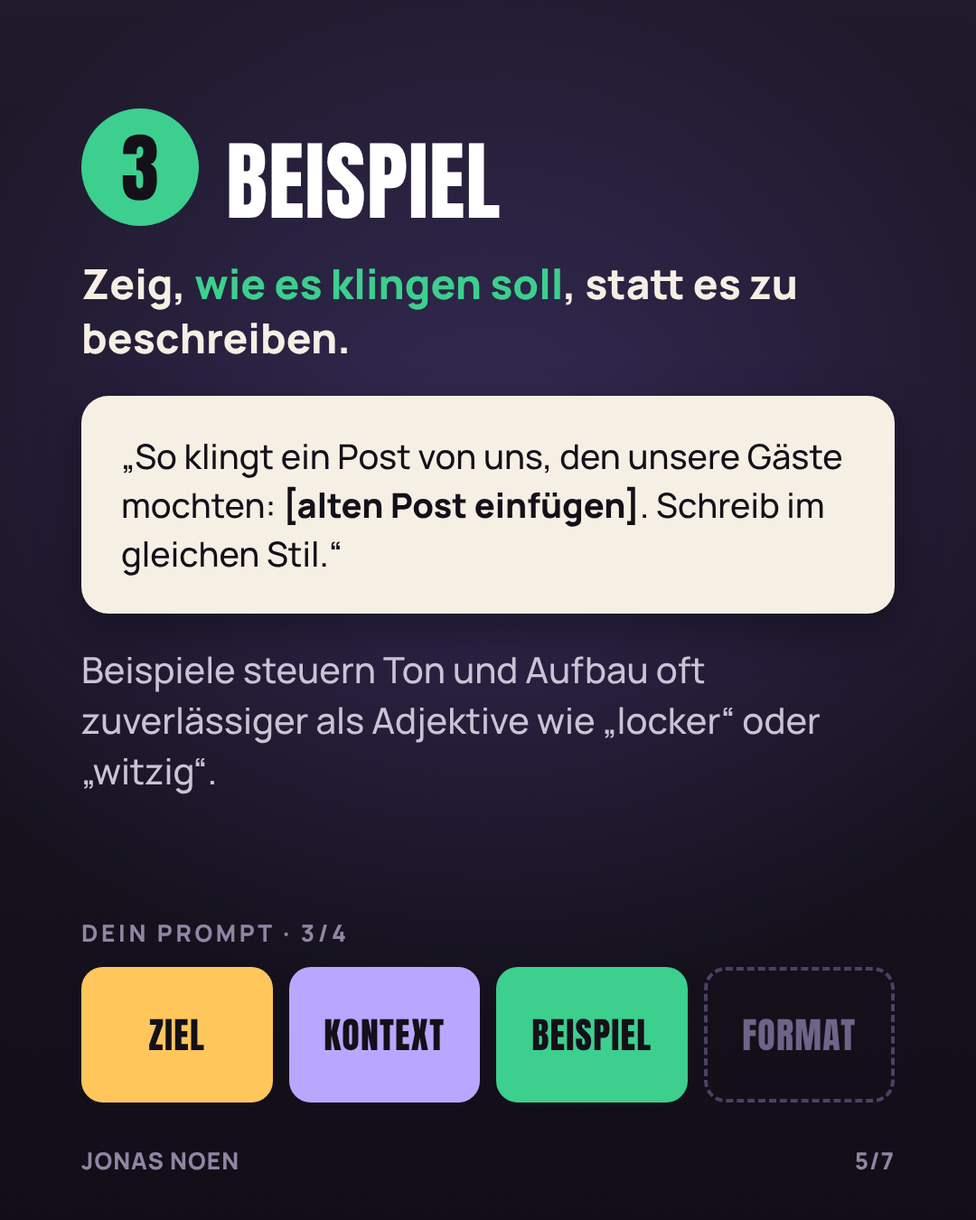
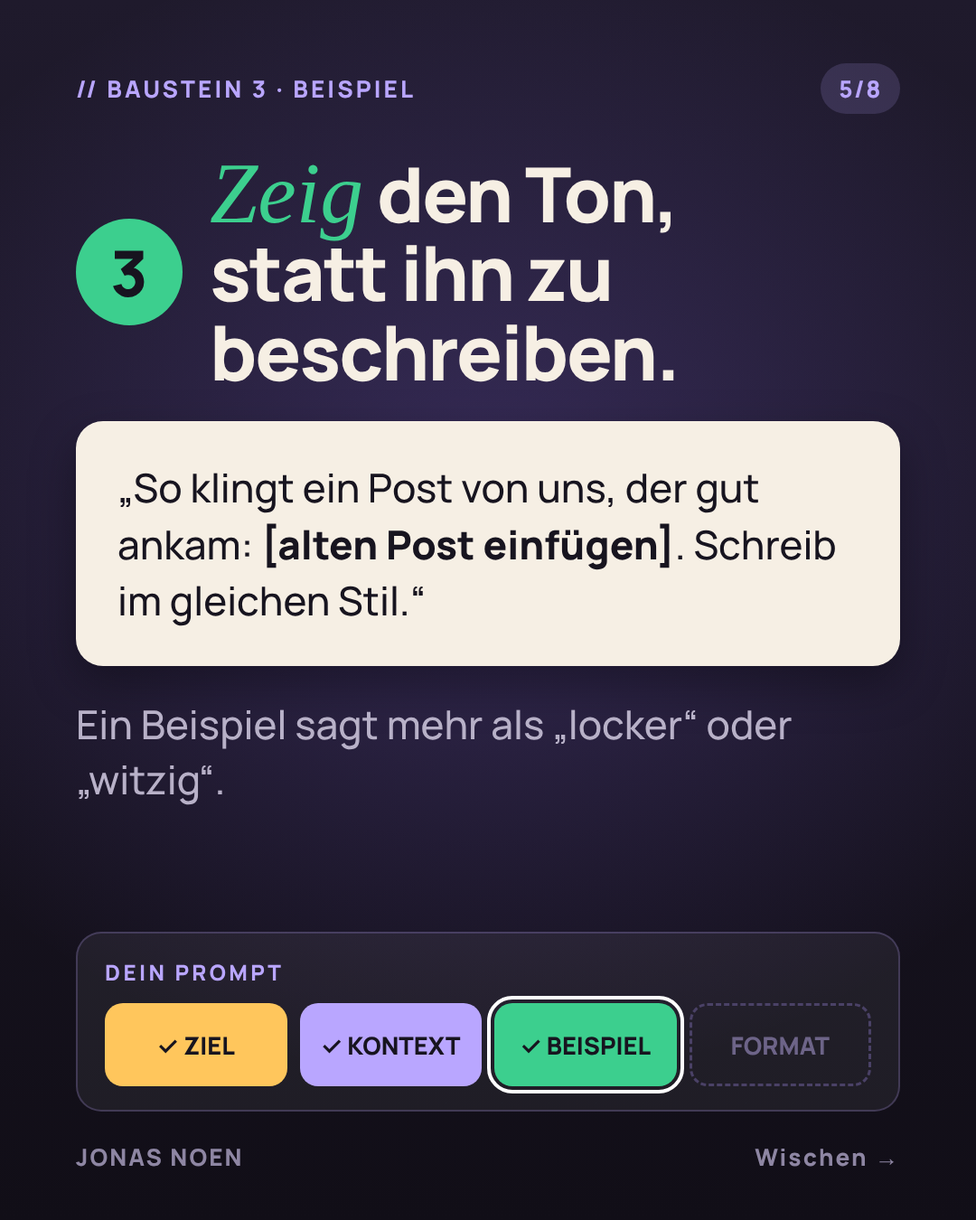
K001 neu im Reel-Look: 8 Slides, Hook-Cover, Speicher-Vorlage; Karussell-Regeln
Claude-Session: https://claude.ai/code/session_01HsYp4LG5fqVGPsJu3h9o7v

diff --git a/carousels/K001/source/slides.html b/carousels/K001/source/slides.html
@@ -1,118 +1,162 @@
 <!doctype html><html><head><meta charset="utf-8">
+<!-- Karussell-Vorlage v2 (Reel-Look): Manrope 800 + kursive Akzente (Instrument Serif), hell/dunkel im Wechsel,
+     Memoji-Posen aus assets/avatar. Je Slide <section class="slide [light]"><div class="in">…</div></section>.
+     shot.cjs rendert 1080×1350 (Instagram) und mit body.tt 1080×1920 (TikTok, Inhalt nach unten versetzt). -->
 <style>
 @font-face{font-family:Manrope;font-weight:500;src:url(node_modules/@fontsource/manrope/files/manrope-latin-500-normal.woff2)}
 @font-face{font-family:Manrope;font-weight:800;src:url(node_modules/@fontsource/manrope/files/manrope-latin-800-normal.woff2)}
-@font-face{font-family:Anton;src:url(node_modules/@fontsource/anton/files/anton-latin-400-normal.woff2)}
-:root{--ink:#141019;--warm:#f6efe4;--chat:#f7f3fb;--violet:#8b6cf0;--violetL:#b9a6ff;--amber:#ffc65c;--green:#3ccf8e;--red:#ef5a4c;--grey:#c9c4d4}
+@font-face{font-family:Serif;font-style:italic;src:url(node_modules/@fontsource/instrument-serif/files/instrument-serif-latin-400-italic.woff2)}
+:root{--ink:#17141f;--warm:#f6efe4;--chat:#f7f3fb;--violet:#8b6cf0;--violetL:#b9a6ff;--amber:#ffc65c;--green:#3ccf8e;--red:#ef5a4c;--coral:#ff8f6b;--grey:#b8b1c8}
 *{box-sizing:border-box}html,body{margin:0;background:#000}
-.slide{width:1080px;height:1350px;position:relative;overflow:hidden;font-family:Manrope,sans-serif;color:var(--warm);
-  background:radial-gradient(700px 600px at 540px 520px,rgba(139,108,240,.24),rgba(139,108,240,0)),linear-gradient(#1f1a2c,#110e17);margin-bottom:20px}
-.lamp{position:absolute;left:470px;top:0;width:140px;height:160px}
-.lamp:before{content:"";position:absolute;left:66px;top:0;width:8px;height:100px;background:#2b2438}
-.lamp:after{content:"";position:absolute;left:0;top:96px;width:140px;height:56px;border-radius:30px;background:#3a3150}
-.cone{position:absolute;left:0;top:150px;width:1080px;height:900px;background:linear-gradient(rgba(255,214,150,.22),rgba(255,214,150,0));clip-path:polygon(44% 0,56% 0,85% 100%,15% 100%)}
-.pad{position:absolute;inset:0;padding:120px 90px 110px;display:flex;flex-direction:column;gap:34px}
-.kicker{font:800 30px Manrope;letter-spacing:.14em;text-transform:uppercase;color:var(--violetL)}
-.h{font:400 104px/1.02 Anton;text-transform:uppercase;letter-spacing:.01em;color:#fff;text-wrap:balance;margin:0}
-.h .a{color:var(--amber)}.h .v{color:var(--violetL)}
-.sub{font:500 40px/1.4 Manrope;color:var(--grey);max-width:860px;margin:0}
-.card{background:var(--warm);color:var(--ink);border-radius:30px;padding:40px 44px;font:500 38px/1.42 Manrope;box-shadow:0 20px 50px rgba(0,0,0,.35)}
+.slide{width:1080px;height:1350px;position:relative;overflow:hidden;font-family:Manrope,sans-serif;color:var(--warm);margin-bottom:20px;
+  background:radial-gradient(760px 640px at 540px 560px,rgba(139,108,240,.26),rgba(139,108,240,0)),linear-gradient(#1f1a2c,#110e17)}
+.slide.light{background:radial-gradient(800px 600px at 540px 500px,rgba(139,108,240,.10),rgba(139,108,240,0)),var(--warm);color:var(--ink)}
+.in{position:absolute;left:0;top:0;width:1080px;height:1350px}
+.tt .slide{height:1920px}.tt .in{top:270px}.tt .av{bottom:-270px!important}.tt #s1 .swipe{visibility:hidden}
+.top{position:absolute;left:84px;right:84px;top:70px;display:flex;justify-content:space-between;align-items:center;font:800 26px Manrope;letter-spacing:.12em;text-transform:uppercase;color:var(--violetL)}
+.light .top{color:var(--violet)}
+.cnt{letter-spacing:.06em;padding:10px 20px;border-radius:30px;background:rgba(185,166,255,.16)}
+.light .cnt{background:rgba(139,108,240,.12)}
+.body{position:absolute;left:84px;right:84px;top:170px;display:flex;flex-direction:column;gap:34px}
+.h{font:800 92px/1.04 Manrope;letter-spacing:-.025em;margin:0;text-wrap:balance}
+.s{font:400 1.14em/0.9 Serif;font-style:italic;letter-spacing:0;color:var(--amber)}
+.s.v{color:var(--violetL)}.s.g{color:var(--green)}.s.c{color:var(--coral)}
+.light .s{color:var(--red)}.light .s.v{color:var(--violet)}
+.sub{font:500 40px/1.38 Manrope;color:var(--grey);margin:0}
+.light .sub{color:#5d566d}
+.card{background:var(--warm);color:var(--ink);border-radius:30px;padding:42px 46px;font:500 44px/1.42 Manrope;box-shadow:0 20px 50px rgba(0,0,0,.35)}
+.light .card{background:#fff;box-shadow:0 16px 40px rgba(60,40,110,.14)}
 .card b{font-weight:800}
-.chat{background:var(--chat);color:var(--ink);border-radius:30px;overflow:hidden;box-shadow:0 20px 50px rgba(0,0,0,.35)}
-.chat .bar{background:#ece5f7;padding:22px 30px;font:800 28px Manrope;color:#5b4bb8;display:flex;gap:12px;align-items:center}
+.chat{background:var(--chat);color:var(--ink);border-radius:30px;overflow:hidden;box-shadow:0 16px 40px rgba(60,40,110,.16)}
+.chat .bar{background:#ece5f7;padding:20px 30px;font:800 28px Manrope;color:#5b4bb8;display:flex;gap:12px;align-items:center}
 .dot{width:16px;height:16px;border-radius:50%}
-.chat .body{padding:34px;display:flex;flex-direction:column;gap:22px}
-.me{align-self:flex-end;background:var(--violet);color:#fff;border-radius:26px;padding:24px 30px;font:800 34px/1.35 Manrope;max-width:88%}
-.ai{background:#e9e3f3;border-radius:26px;padding:24px 30px;font:500 32px/1.4 Manrope;color:var(--ink);max-width:92%}
-.tag{display:inline-block;font:800 26px Manrope;letter-spacing:.08em;text-transform:uppercase;padding:10px 20px;border-radius:30px}
-.stamp{position:absolute;font:800 52px Manrope;color:var(--red);border:10px solid var(--red);border-radius:22px;padding:12px 28px;transform:rotate(-10deg)}
-.num{position:absolute;left:0;top:0;width:130px;height:130px;border-radius:50%;display:grid;place-items:center;font:400 84px Anton;color:var(--ink)}
-.foot{position:absolute;left:90px;right:90px;bottom:48px;display:flex;justify-content:space-between;font:800 26px Manrope;color:#8e86a3;letter-spacing:.04em}
-.swipe{font:800 32px Manrope;color:var(--amber)}
-canvas.guy{position:absolute}
-.big{font:800 46px/1.3 Manrope}
-.row{display:flex;gap:26px;align-items:flex-start}
-.stack{position:absolute;left:90px;right:90px;bottom:130px;display:grid;grid-template-columns:repeat(4,1fr);gap:18px}
-.stack div{height:150px;border-radius:24px;border:4px dashed #4a4166;display:grid;place-items:center;font:400 40px Anton;letter-spacing:.03em;color:#6d6488}
-.stack div.on{border:none;color:var(--ink)}
-.stack-l{position:absolute;left:90px;bottom:300px;font:800 26px Manrope;letter-spacing:.14em;color:#8e86a3}
-.chk{flex:0 0 64px;height:64px;border-radius:50%;display:grid;place-items:center;font:800 38px Manrope;color:#fff}
+.chat .msgs{padding:32px;display:flex;flex-direction:column;gap:22px}
+.me{align-self:flex-end;background:var(--violet);color:#fff;border-radius:26px;padding:22px 28px;font:800 34px/1.35 Manrope;max-width:88%}
+.ai{background:#e9e3f3;border-radius:26px;padding:22px 28px;font:500 32px/1.4 Manrope;max-width:92%;color:#4a4458}
+.stamp{position:absolute;font:800 50px Manrope;color:var(--red);border:9px solid var(--red);border-radius:20px;padding:10px 26px;transform:rotate(-9deg);background:rgba(246,239,228,.85)}
+.badge{width:118px;height:118px;border-radius:50%;display:grid;place-items:center;font:800 70px Manrope;color:var(--ink);flex:0 0 118px}
+.row{display:flex;gap:30px;align-items:center}
+.foot{z-index:2;position:absolute;left:84px;right:84px;bottom:52px;display:flex;justify-content:space-between;align-items:center;font:800 26px Manrope;letter-spacing:.08em;color:#8e86a3}
+.light .foot{color:#9a93a8}
+.swipe{color:var(--amber);font-size:32px;letter-spacing:.02em}
+.light .swipe{color:var(--red)}
+.av{position:absolute;filter:drop-shadow(0 24px 40px rgba(0,0,0,.35))}
+/* Fortschritts-Karte wie in den Reels */
+.prog{position:absolute;left:84px;right:84px;bottom:120px;background:rgba(255,255,255,.06);border:2px solid rgba(185,166,255,.22);border-radius:28px;padding:26px 30px}
+.prog .t{font:800 24px Manrope;letter-spacing:.14em;color:var(--violetL);margin-bottom:18px}
+.prog .g{display:grid;grid-template-columns:repeat(4,1fr);gap:14px}
+.prog .g div{height:92px;border-radius:20px;border:3px dashed #4a4166;display:flex;gap:10px;align-items:center;justify-content:center;font:800 27px Manrope;color:#6d6488}
+.prog .g div.on{border:none;color:var(--ink)}
+.prog .g div.now{outline:4px solid #fff;outline-offset:4px}
+.slots{display:grid;grid-template-columns:repeat(2,250px);gap:18px}
+.slots div{height:120px;border-radius:24px;border:4px dashed #5a5078;display:grid;place-items:center;font:800 64px Manrope;color:#8e86a3}
+.tpl{font:500 40px/1.55 Manrope}
+.tpl p{margin:0 0 22px}.tpl p:last-child{margin:0}
+.tpl b{font-weight:800}
+.blank{display:inline-block;min-width:120px;border-bottom:4px solid #c9c2d6;color:#9a93a8;text-align:center}
+.chk{flex:0 0 60px;height:60px;border-radius:50%;display:grid;place-items:center;font:800 36px Manrope;color:#fff}
 </style></head><body>
 
-<!-- 1 Cover -->
-<section class="slide" id="s1"><div class="lamp"></div><div class="cone"></div>
- <div class="pad" style="padding-top:220px">
-  <div class="kicker">Claude-Tipp · 4 Bausteine</div>
-  <h1 class="h">Der Prompt,<br>der beim <span class="a">ersten Mal</span><br>sitzt</h1>
-  <p class="sub">Ziel, Kontext, Beispiel, Format. Diese vier Teile machen aus einer vagen Bitte eine klare Aufgabe.</p>
+<!-- 1 Cover: Behauptung + leere Slots (Neugier) -->
+<section class="slide" id="s1"><div class="in">
+ <div class="top"><span>// Claude-Prompts · Teil 1</span><span class="cnt">1/8</span></div>
+ <div class="body" style="top:230px;gap:40px">
+  <h1 class="h" style="font-size:118px">Hör auf, Claude <span class="s">raten</span> zu lassen.</h1>
+  <p class="sub" style="font-size:44px;color:#e6dff5">4 Bausteine, die in<br>jeden Prompt gehören.</p>
+  <div class="slots"><div>?</div><div>?</div><div>?</div><div>?</div></div>
  </div>
- <canvas class="guy" data-pose="none" width="480" height="480" style="left:560px;top:720px"></canvas>
+ <img class="av" src="../../../assets/avatar/surprised.png" style="width:560px;right:-40px;bottom:0">
  <div class="foot"><span>JONAS NOEN</span><span class="swipe">Wischen →</span></div>
-</section>
+</div></section>
 
-<!-- 2 Problem -->
-<section class="slide" id="s2"><div class="pad">
-  <div class="kicker">Das Problem</div>
-  <h2 class="h" style="font-size:92px">Kurzer Prompt,<br><span class="a">Claude muss raten</span></h2>
-  <div class="chat" style="margin-top:20px"><div class="bar"><span class="dot" style="background:#ef5a4c"></span><span class="dot" style="background:#ffc65c"></span><span class="dot" style="background:#3ccf8e"></span>&nbsp;Claude</div>
-   <div class="body"><div class="me">Schreib einen Instagram-Post über unser Café.</div>
+<!-- 2 Problem (hell): Spannung aufbauen, Lücke öffnen -->
+<section class="slide light" id="s2"><div class="in">
+ <div class="top"><span>// Das Problem</span><span class="cnt">2/8</span></div>
+ <div class="body">
+  <h2 class="h" style="font-size:84px">Kurzer Prompt = <span class="s">austauschbare</span> Antwort.</h2>
+  <div class="chat"><div class="bar"><span class="dot" style="background:#ef5a4c"></span><span class="dot" style="background:#ffc65c"></span><span class="dot" style="background:#3ccf8e"></span>&nbsp;Claude</div>
+   <div class="msgs"><div class="me">Schreib einen Instagram-Post über unser Café.</div>
    <div class="ai">Willkommen in unserem gemütlichen Café! Bei uns erwartet dich leckerer Kaffee in entspannter Atmosphäre …</div></div></div>
-  <p class="sub">Für wen? Wozu? In welchem Ton? Fehlt das, kommt etwas Allgemeines heraus.</p>
+  <p class="h" style="font-size:54px;margin-top:44px">Claude fehlen <span class="s v" style="white-space:nowrap">4 Infos</span>.<br>Hier sind sie →</p>
  </div>
- <div class="stamp" style="right:130px;top:1120px">AUSTAUSCHBAR</div>
- <div class="foot"><span>JONAS NOEN</span><span>2/7</span></div>
-</section>
+ <div class="stamp" style="right:60px;top:812px">AUSTAUSCHBAR</div>
+ <div class="foot"><span>JONAS NOEN</span><span class="swipe">Wischen →</span></div>
+</div></section>
 
-<!-- 3-6 Bausteine -->
-<section class="slide" id="s3"><div class="pad">
-  <div style="position:relative;height:130px"><div class="num" style="background:var(--amber)">1</div><div style="position:absolute;left:160px;top:24px" class="h"><span style="font-size:96px">Ziel</span></div></div>
-  <p class="big" style="margin:0">Sag, was am Ende <span style="color:var(--amber)">herauskommen soll</span>, nicht nur das Thema.</p>
-  <div class="card">„Schreib einen Instagram-Post, der zu unserem <b>neuen Frühstücksangebot am Wochenende</b> einlädt.“</div>
-  <p class="sub">Je genauer das Ergebnis beschrieben ist, desto weniger muss Claude raten.</p>
- </div><div class="stack-l">DEIN PROMPT · 1/4</div><div class="stack"><div class="on" style="background:var(--amber)">ZIEL</div><div class="" style="">KONTEXT</div><div class="" style="">BEISPIEL</div><div class="" style="">FORMAT</div></div><div class="foot"><span>JONAS NOEN</span><span>3/7</span></div></section>
+<!-- 3–6 Bausteine (dunkel), Fortschritts-Karte füllt sich -->
+<section class="slide" id="s3"><div class="in">
+ <div class="top"><span>// Baustein 1 · Ziel</span><span class="cnt">3/8</span></div>
+ <div class="body">
+  <div class="row"><div class="badge" style="background:var(--amber)">1</div><h2 class="h" style="font-size:84px">Sag, was <span class="s">herauskommen</span> soll.</h2></div>
+  <div class="card">„Schreib einen Instagram-Post, der zu unserem <b>neuen Frühstück am Wochenende</b> einlädt.“</div>
+  <p class="sub" style="font-size:44px">Nicht nur das Thema nennen, sondern das Ergebnis.</p>
+ </div>
+ <div class="prog"><div class="t">DEIN PROMPT</div><div class="g"><div class="on now" style="background:var(--amber)">✓ ZIEL</div><div>KONTEXT</div><div>BEISPIEL</div><div>FORMAT</div></div></div>
+ <div class="foot"><span>JONAS NOEN</span><span>Wischen →</span></div>
+</div></section>
 
-<section class="slide" id="s4"><div class="pad">
-  <div style="position:relative;height:130px"><div class="num" style="background:var(--violetL)">2</div><div style="position:absolute;left:160px;top:24px" class="h"><span style="font-size:96px">Kontext</span></div></div>
-  <p class="big" style="margin:0">Erklär <span style="color:var(--violetL)">für wen</span> und <span style="color:var(--violetL)">warum</span>.</p>
-  <div class="card">„Unsere Gäste sind Studierende und junge Familien aus dem Viertel. <b>Wir wollen, dass sie am Samstag früher kommen</b>, weil es mittags oft zu voll ist.“</div>
-  <p class="sub">Mit dem Grund kann Claude selbst entscheiden, was wichtig ist.</p>
- </div><div class="stack-l">DEIN PROMPT · 2/4</div><div class="stack"><div class="on" style="background:var(--amber)">ZIEL</div><div class="on" style="background:var(--violetL)">KONTEXT</div><div class="" style="">BEISPIEL</div><div class="" style="">FORMAT</div></div><div class="foot"><span>JONAS NOEN</span><span>4/7</span></div></section>
+<section class="slide" id="s4"><div class="in">
+ <div class="top"><span>// Baustein 2 · Kontext</span><span class="cnt">4/8</span></div>
+ <div class="body">
+  <div class="row"><div class="badge" style="background:var(--violetL)">2</div><h2 class="h" style="font-size:84px">Sag, <span class="s v">für wen</span> und <span class="s v">warum</span>.</h2></div>
+  <div class="card">„Unsere Gäste sind Studierende und junge Familien. <b>Sie sollen samstags früher kommen</b>, weil es mittags zu voll ist.“</div>
+  <p class="sub" style="font-size:44px">Mit dem Grund entscheidet Claude selbst, was wichtig ist.</p>
+ </div>
+ <div class="prog"><div class="t">DEIN PROMPT</div><div class="g"><div class="on" style="background:var(--amber)">✓ ZIEL</div><div class="on now" style="background:var(--violetL)">✓ KONTEXT</div><div>BEISPIEL</div><div>FORMAT</div></div></div>
+ <div class="foot"><span>JONAS NOEN</span><span>Wischen →</span></div>
+</div></section>
 
-<section class="slide" id="s5"><div class="pad">
-  <div style="position:relative;height:130px"><div class="num" style="background:var(--green)">3</div><div style="position:absolute;left:160px;top:24px" class="h"><span style="font-size:96px">Beispiel</span></div></div>
-  <p class="big" style="margin:0">Zeig, <span style="color:var(--green)">wie es klingen soll</span>, statt es zu beschreiben.</p>
-  <div class="card">„So klingt ein Post von uns, den unsere Gäste mochten: <b>[alten Post einfügen]</b>. Schreib im gleichen Stil.“</div>
-  <p class="sub">Beispiele steuern Ton und Aufbau oft zuverlässiger als Adjektive wie „locker“ oder „witzig“.</p>
- </div><div class="stack-l">DEIN PROMPT · 3/4</div><div class="stack"><div class="on" style="background:var(--amber)">ZIEL</div><div class="on" style="background:var(--violetL)">KONTEXT</div><div class="on" style="background:var(--green)">BEISPIEL</div><div class="" style="">FORMAT</div></div><div class="foot"><span>JONAS NOEN</span><span>5/7</span></div></section>
+<section class="slide" id="s5"><div class="in">
+ <div class="top"><span>// Baustein 3 · Beispiel</span><span class="cnt">5/8</span></div>
+ <div class="body">
+  <div class="row"><div class="badge" style="background:var(--green)">3</div><h2 class="h" style="font-size:84px"><span class="s g">Zeig</span> den Ton, statt ihn zu beschreiben.</h2></div>
+  <div class="card">„So klingt ein Post von uns, der gut ankam: <b>[alten Post einfügen]</b>. Schreib im gleichen Stil.“</div>
+  <p class="sub" style="font-size:44px">Ein Beispiel sagt mehr als „locker“ oder „witzig“.</p>
+ </div>
+ <div class="prog"><div class="t">DEIN PROMPT</div><div class="g"><div class="on" style="background:var(--amber)">✓ ZIEL</div><div class="on" style="background:var(--violetL)">✓ KONTEXT</div><div class="on now" style="background:var(--green)">✓ BEISPIEL</div><div>FORMAT</div></div></div>
+ <div class="foot"><span>JONAS NOEN</span><span>Wischen →</span></div>
+</div></section>
 
-<section class="slide" id="s6"><div class="pad">
-  <div style="position:relative;height:130px"><div class="num" style="background:#ff8f6b">4</div><div style="position:absolute;left:160px;top:24px" class="h"><span style="font-size:96px">Format</span></div></div>
-  <p class="big" style="margin:0">Leg fest, <span style="color:#ff8f6b">wie das Ergebnis aussieht</span>.</p>
-  <div class="card">„Maximal 80 Wörter, ein Emoji, am Ende eine Frage an die Gäste. <b>Gib mir drei Varianten.</b>“</div>
-  <p class="sub">Sag lieber, was du willst, als was du nicht willst.</p>
- </div><div class="stack-l">DEIN PROMPT · 4/4</div><div class="stack"><div class="on" style="background:var(--amber)">ZIEL</div><div class="on" style="background:var(--violetL)">KONTEXT</div><div class="on" style="background:var(--green)">BEISPIEL</div><div class="on" style="background:#ff8f6b">FORMAT</div></div><div class="foot"><span>JONAS NOEN</span><span>6/7</span></div></section>
+<section class="slide" id="s6"><div class="in">
+ <div class="top"><span>// Baustein 4 · Format</span><span class="cnt">6/8</span></div>
+ <div class="body">
+  <div class="row"><div class="badge" style="background:var(--coral)">4</div><h2 class="h" style="font-size:84px">Leg fest, <span class="s c">wie</span> es aussieht.</h2></div>
+  <div class="card">„Maximal 80 Wörter, ein Emoji, am Ende eine Frage. <b>Gib mir drei Varianten.</b>“</div>
+  <p class="sub" style="font-size:44px">Sag, was du willst – nicht, was du nicht willst.</p>
+ </div>
+ <div class="prog"><div class="t">DEIN PROMPT</div><div class="g"><div class="on" style="background:var(--amber)">✓ ZIEL</div><div class="on" style="background:var(--violetL)">✓ KONTEXT</div><div class="on" style="background:var(--green)">✓ BEISPIEL</div><div class="on now" style="background:var(--coral)">✓ FORMAT</div></div></div>
+ <div class="foot"><span>JONAS NOEN</span><span>Wischen →</span></div>
+</div></section>
 
-<!-- 7 Zusammen + Praxischeck -->
-<section class="slide" id="s7"><div class="lamp"></div><div class="cone"></div><div class="pad" style="padding-top:200px;gap:28px">
-  <div class="kicker">Zum Speichern</div>
-  <h2 class="h" style="font-size:88px">Ziel · Kontext ·<br>Beispiel · <span class="a">Format</span></h2>
-  <div class="card" style="font-size:34px">
-   <div class="row"><div class="chk" style="background:var(--green)">✓</div><div>Vier Bausteine in einen Prompt, dann erst abschicken.</div></div>
-   <div class="row" style="margin-top:20px"><div class="chk" style="background:var(--amber);color:var(--ink)">!</div><div>Ehrlicher Check: Auch ein guter Prompt garantiert kein richtiges Ergebnis. Fakten und Zahlen selbst prüfen.</div></div>
+<!-- 7 Speicher-Slide (hell): Vorlage zum Ausfüllen -->
+<section class="slide light" id="s7"><div class="in">
+ <div class="top"><span>// Zum Speichern 📌</span><span class="cnt">7/8</span></div>
+ <div class="body">
+  <h2 class="h" style="font-size:88px">Die <span class="s">Vorlage</span> zum Kopieren</h2>
+  <div class="card tpl">
+   <p><b style="color:#c98a12">Ziel:</b> Schreib <span class="blank">___</span>, das <span class="blank">___</span> erreicht.</p>
+   <p><b style="color:var(--violet)">Kontext:</b> Für <span class="blank">___</span>, weil <span class="blank">___</span>.</p>
+   <p><b style="color:#1f9e66">Beispiel:</b> So soll es klingen: <span class="blank">___</span></p>
+   <p><b style="color:#e0603c">Format:</b> <span class="blank">___</span> Wörter, <span class="blank">___</span> Varianten.</p>
   </div>
-  <p class="big" style="margin:0;font-size:42px">Welchen Baustein vergisst du am häufigsten?</p>
+  <p class="sub" style="font-size:44px">Speichern und beim nächsten Prompt ausfüllen.</p>
  </div>
- <canvas class="guy" data-pose="none" width="340" height="340" style="left:720px;top:930px"></canvas>
- <div class="foot"><span>JONAS NOEN · @jonas.noen</span><span>7/7</span></div></section>
+ <div class="foot"><span>JONAS NOEN</span><span class="swipe">Noch eins →</span></div>
+</div></section>
 
-<script>
-const C={skin:'#f2c7a5',hair:'#3a2a22',ink:'#14101c'};
-let g;function rr(x,y,w,h,r){g.beginPath();g.roundRect(x,y,w,h,r);}
-function speaking(){return false}
-</script>
-<script src="guy.js"></script>
-<script>
-document.querySelectorAll('canvas.guy').forEach(cv=>{g=cv.getContext('2d');const s=cv.width/560;g.save();g.scale(s,s);
-  guy(280,380,1.05,0.5,{talk:false,wave:cv.dataset.pose==='wave',point:cv.dataset.pose==='point'});g.restore();});
-</script>
+<!-- 8 Praxischeck + Frage + Folgen (Rückbezug zum Cover) -->
+<section class="slide" id="s8"><div class="in">
+ <div class="top"><span>// Praxischeck</span><span class="cnt">8/8</span></div>
+ <div class="body" style="gap:30px">
+  <h2 class="h" style="font-size:86px">Jetzt muss Claude <span class="s">nicht mehr raten</span>.</h2>
+  <div class="card" style="font-size:34px;max-width:660px">
+   <div class="row" style="align-items:flex-start"><div class="chk" style="background:var(--green)">✓</div><div>Alle 4 Bausteine rein, dann erst abschicken.</div></div>
+   <div class="row" style="align-items:flex-start;margin-top:22px"><div class="chk" style="background:var(--amber);color:var(--ink)">!</div><div>Auch ein guter Prompt garantiert kein richtiges Ergebnis. Fakten selbst prüfen.</div></div>
+  </div>
+  <p class="h" style="font-size:50px;max-width:600px">Welchen Baustein <span class="s v">vergisst</span> du am häufigsten?</p>
+  <p class="sub" style="font-size:36px;max-width:560px;margin-top:-8px">Folg mir für mehr Claude-Tipps.</p>
+ </div>
+ <img class="av" src="../../../assets/avatar/wave.png" style="width:470px;right:-30px;bottom:0">
+ <div class="foot"><span>@jonas.noen</span><span></span></div>
+</div></section>
 </body></html>

diff --git a/CLAUDE.md b/CLAUDE.md
@@ -46,19 +46,27 @@ Gleiche Hook-Regeln für alle Formate (siehe Skript). Nach dem Test: Gewinner wi
 ## Ablauf eines Karussells
 
 1. Thema wie beim Reel prüfen (keine Duplikate, Fakten mit offizieller Quelle, keine
-   erfundenen Zahlen). 7 Slides: Cover mit Jonas-Figur → Problem → 3–4 Schritte mit einem
-   durchgehenden konkreten Beispiel → Zusammenfassung „Zum Speichern“ mit ehrlichem
-   Praxischeck und einer Frage an die Zuschauer. Absender „JONAS NOEN“, Slide-Nummer.
-2. Vorlage: `carousels/K001/source/slides.html` (gleicher Look wie die Reels, Anton-
-   Überschriften, Manrope-Text, helle Karten, farbige Akzente, Figur aus `guy.js`).
+   erfundenen Zahlen). **8 Slides** (7–10 erlaubt), Serie **„Claude-Prompts Teil N“** (Feld `series`):
+   1. **Cover:** Behauptung als Hook, höchstens 10 Wörter, Zahl wenn passend (wie Reel-Hooks,
+      z. B. „Hör auf, Claude raten zu lassen.“), Memoji-Pose, Neugier-Element (leere Slots „?“), „Wischen →“.
+   2. **Problem (hell):** bestätigt das Cover-Versprechen und öffnet eine Lücke („Claude fehlen 4 Infos. Hier sind sie →“).
+   3. **3–4 Schritte (dunkel):** ein Gedanke pro Slide, Badge-Nummer, Beispielkarte aus einem durchgehenden
+      konkreten Beispiel, Fortschritts-Karte „DEIN PROMPT“, die sich mit Haken füllt.
+   4. **Speicher-Slide (hell):** etwas, das allein nützlich ist (Vorlage zum Ausfüllen, Checkliste).
+   5. **Schluss:** Rückbezug aufs Cover, ehrlicher Praxischeck, eine Frage an die Zuschauer, Memoji winkt, @jonas.noen.
+   Pro Slide höchstens ca. 40 Wörter. Kern-Inhalt oben/mittig, nichts Wichtiges ganz unten rechts.
+   Caption = „zweiter Post“: Hook wiederholen, Inhalt in neuen Worten, Aufforderung zum Speichern, Frage.
+2. Vorlage: `carousels/K001/source/slides.html` (v2, gleicher Look wie die Reels: Manrope 800, kursive
+   Akzentwörter in Instrument Serif, hell/dunkel im Wechsel, Label oben links `// …`, Zähler `N/8` oben rechts,
+   Memoji-Posen aus `assets/avatar/*.png`). Jede Slide: `<section class="slide [light]" id="sN"><div class="in">…`.
 3. Rendern: `NODE_PATH=/opt/npm-tools/node_modules node engine/carousel/shot.cjs slides.html <outdir>`
-   (Schriften per `npm i` aus `engine/package.json` als `node_modules` neben `slides.html`).
-   Ergibt `ig-01..07.png` (1080×1350) und `tt-01..07.png` (1080×1920, TikTok-sichere Ränder).
-   Alle 14 Bilder ansehen: nichts abgeschnitten, nichts überlappt.
+   (Schriften per `npm i` aus `engine/package.json` als `node_modules` neben `slides.html`, nicht committen).
+   Ergibt `ig-01..NN.png` (1080×1350) und `tt-01..NN.png` (1080×1920, Inhalt nach unten versetzt).
+   Alle Bilder ansehen: nichts abgeschnitten, nichts überlappt, Figur verdeckt keinen Text.
 4. Ins Repo unter `carousels/K###/`, Eintrag in `register.json` mit `type: "carousel"`.
 5. Metricool: ZWEI Posts (Formate unterscheiden sich):
-   - Instagram: `media` = die 7 `ig-0X.png` Raw-URLs (mit Commit-SHA), `instagramData.type: "POST"`.
-   - TikTok: `media` = die 7 `tt-0X.png`, `tiktokData.title` Pflicht, `privacyOption: "PUBLIC_TO_EVERYONE"`.
+   - Instagram: `media` = alle `ig-NN.png` Raw-URLs (mit Commit-SHA), `instagramData.type: "POST"`.
+   - TikTok: `media` = alle `tt-NN.png`, `tiktokData.title` Pflicht, `privacyOption: "PUBLIC_TO_EVERYONE"`.
 
 ## Ablauf eines Reels
 
